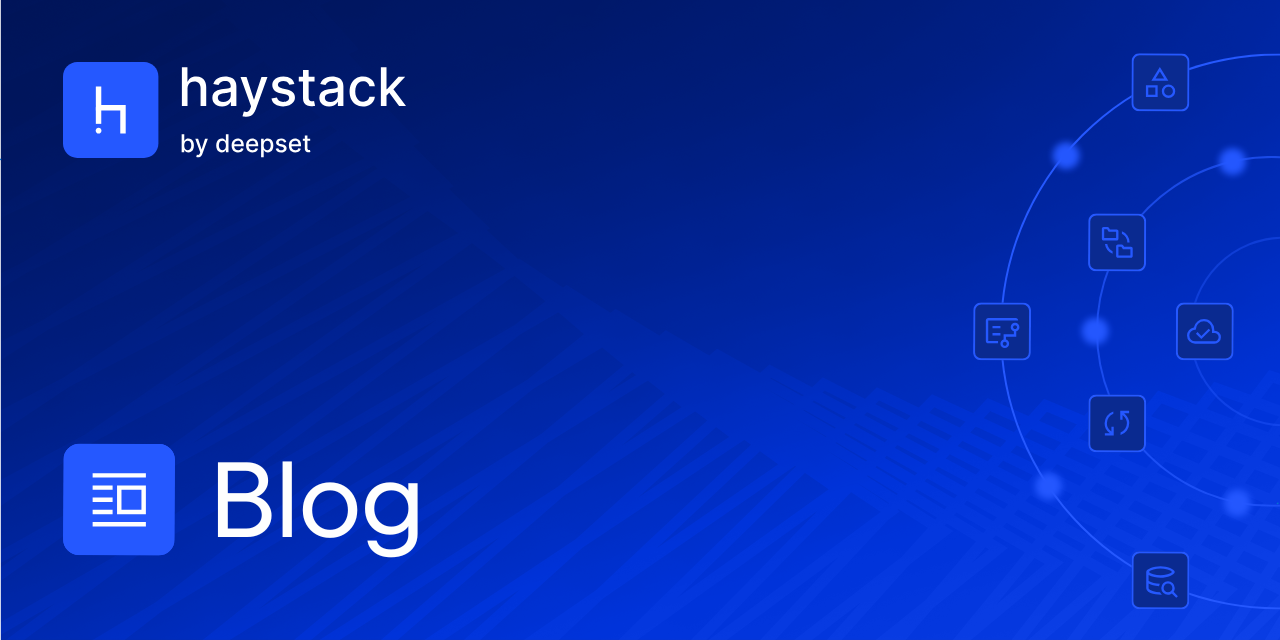
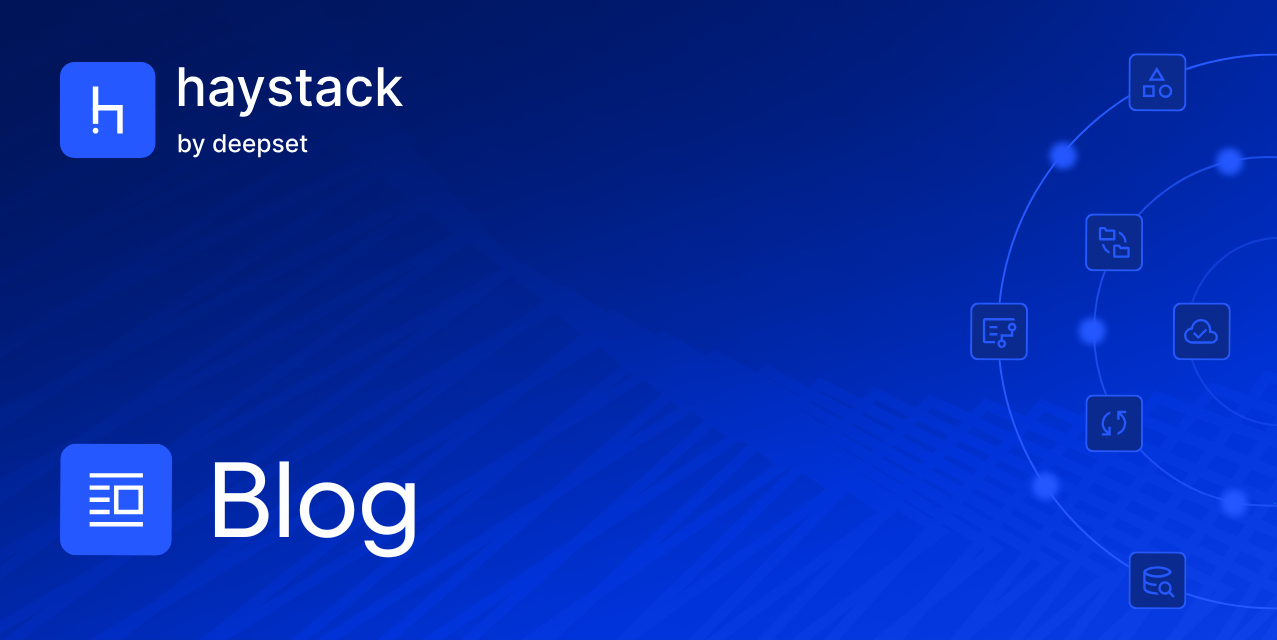
some copy updates and the announcement blog

diff --git a/content/blog/announcing-haystack-ecosystem/index.md b/content/blog/announcing-haystack-ecosystem/index.md
@@ -1,0 +1,94 @@
+---
+layout: blog-post
+title: 'Haystack Ecosystem: One Name for Building, Running, and Scaling AI'
+description: A Faster Way to Build and Scale Production-Grade AI Apps
+featured_image: thumbnail.png
+images: ["blog/announcing-haystack-ecosystem/thumbnail.png"]
+toc: True
+date: 2025-12-19
+last_updated:  2025-12-19
+authors:
+  - Bilge Yucel
+tags: ["Community"]
+---	
+
+We’re making some naming and visual updates at deepset to better reflect the role Haystack already plays as a framework, a community, and the foundation of our enterprise platform.
+
+If you’re already building with Haystack, nothing is changing in how you build or run applications. This update is about clarity—making the Haystack ecosystem easier to understand, easier to navigate, and centered around a single open foundation.
+
+## The Open Source to Enterprise Story of Haystack
+
+**Haystack** began as an open-source framework for building NLP pipelines, created to give developers precise control over how AI systems are composed, debugged, and run in production. From the start, it was designed for real-world use, not just experimentation.
+
+Over time, the framework expanded and so did the community. Teams began using Haystack to power increasingly sophisticated systems in production: **advanced RAG pipelines, agentic workflows, and multi-step, multimodal applications operating over complex enterprise data**. As adoption and contribution grew, Haystack evolved from a framework into a broader ecosystem, shaped by its community and proven in demanding production environments.
+
+As enterprises scaled their use of Haystack, the need for additional operational capabilities emerged. The deepset AI Platform evolved alongside the framework, built on the same architecture, abstractions, and mental model to support governance, deployment, and collaboration at scale. Renaming it to **Haystack Enterprise Platform** reflects how the open-source framework and enterprise operational tooling are already used together in practice.
+
+If you know Haystack, you already understand the foundation of the enterprise platform. The new name reflects how teams use Haystack across development, production, and enterprise-scale environments without changing tools, rewriting systems, or navigating brand confusion when choosing the right Haystack offering.
+
+## The Haystack Logo: What Changed and Why
+
+Alongside the naming change, we’re updating the **Haystack logo** and **overall look**.
+
+This isn’t just a change in appearance. It reflects how Haystack is used today and how the ecosystem has evolved.
+
+Haystack is no longer only a framework, it’s the foundation across everything we ship. Haystack Open Source, Haystack Enterprise Starter, and Haystack Enterprise Platform now share a consistent look, reflecting their place within a single Haystack family.
+
+The updated logo reflects Haystack’s role in building complete AI systems. It aligns with how Haystack is used today—bringing agents, retrieval, pipelines, and operational concerns together while staying true to its core values of openness, clarity and structure.
+
+![](haystack-logos.png#medium)
+
+## The Haystack Product Family
+
+The Haystack product family supports teams across the full lifecycle of enterprise AI adoption—from development to production and organization-wide scale. It includes the **Haystack Framework**, **Haystack Enterprise Starter**, and **Haystack Enterprise Platform**. 
+These are layers teams can grow into as their use of Haystack matures.
+
+### What Is Haystack?
+
+If you’re new to **Haystack**, it’s an open-source AI orchestration framework developed by deepset that enables Python developers to build sophisticated, agentic AI applications.
+
+It provides a modular pipeline architecture with a rich ecosystem of integrations, while preserving full flexibility to add custom components and external tools, including those from MCP servers. With robust documentation and production-ready capabilities such as serialization, logging, and well-defined APIs, Haystack supports reliable deployment across both cloud and on-premise environments.
+
+Haystack is designed to help teams move from experimentation to production without sacrificing control or architectural clarity—and is already used in production by many teams today.
+
+### What Is Haystack Enterprise Starter?
+
+**Haystack Enterprise Starter** combines the **Haystack open-source framework** with **enterprise-grade support** to help teams move more quickly and confidently toward production.
+
+It’s designed for teams already building with the Haystack framework who want additional guidance and reduced implementation risk, including:
+
+- Private and dedicated consulting and support
+- Secure pipeline and deployment design guidance
+- Proven deployment blueprints and production pipeline templates
+- A clear path to expand as requirements evolve
+
+Enterprise Starter serves as a practical stepping stone for teams preparing for broader adoption and more complex production use cases.
+
+_Haystack Enterprise Starter was previously known as Haystack Enterprise._
+
+👉 Learn more about [**Haystack Enterprise Starter**](https://www.deepset.ai/products-and-services/haystack-enterprise)
+
+### What Is Haystack Enterprise Platform?
+
+**Haystack Enterprise Platform** extends Haystack with the tooling needed to run AI systems reliably in production at enterprise scale.
+
+It builds on the same architecture, abstractions, and mental model the developer community already uses in Haystack, adding operational capabilities for deploying, testing, and governing AI applications across complex data, multiple use cases, and different environments.
+
+Key capabilities include:
+- **Composable, repeatable pipeline orchestration** with visual views aligned with code
+- **Production-ready indexing and retrieval** for large, complex enterprise data
+- **Integrated testing and evaluation** to validate changes and improve system behavior over time
+- **Access control and auditability** for shared, multi-team environments
+- **Scalable deployment** across cloud and on-premise setups
+
+Built on Haystack’s open-source foundation and shaped by real-world production use, Haystack Enterprise Platform helps teams elevate Haystack pipelines into enterprise systems they can operate, share, and scale across the organization.
+
+👉 Try [**Haystack Enterprise Platform for free**](https://www.deepset.ai/deepset-studio) or [**learn more**](https://www.deepset.ai/products-and-services/deepset-ai-platform).
+
+## Looking Ahead
+
+With these changes, Haystack is easier to understand, easier to navigate, and easier to adopt across the product family.
+
+This evolution reflects how Haystack is used in practice today—as an open, modular foundation for development and the core of a platform supporting production AI systems ranging from retrieval-based pipelines to agent-based workflows.
+
+We’ll keep building Haystack together with the community, customers, and partners—focused on transparent, debuggable, production-grade AI systems teams can trust and evolve over time.

diff --git a/content/blog/announcing-haystack-enterprise/index.md b/content/blog/announcing-haystack-enterprise/index.md
@@ -1,6 +1,6 @@
 ---
 layout: blog-post
-title: 'Announcing Haystack Enterprise: Best Practices and Support'
+title: 'Announcing Haystack Enterprise Starter: Best Practices and Support'
 description: A Faster Way to Build and Scale Production-Grade AI Apps
 featured_image: thumbnail.png
 images: ["blog/announcing-haystack-enterprise/thumbnail.png"]
@@ -18,9 +18,9 @@ We’ve had a front-row seat to these challenges. Across GitHub threads, meetups
 
 We’ve tackled many of these problems ourselves while building for customers on the [Haystack Enterprise Platform](https://www.deepset.ai/products-and-services/deepset-ai-platform). Now, we want to make that experience more accessible to the broader Haystack community.
 
-That’s why we’re introducing **Haystack Enterprise** today. It adds secure support, best practices, and professional services availability for organizations scaling up their Haystack pipelines. ⬇
+That’s why we’re introducing **Haystack Enterprise Starter** today. It adds secure support, best practices, and professional services availability for organizations scaling up their Haystack pipelines. ⬇
 
-## What's Inside Haystack Enterprise
+## What's Inside Haystack Enterprise Starter
 For developers building with Haystack, speed, reliability, and support are essential as projects move from prototype to production. Haystack Enterprise adds a new layer of readiness for exactly that:
 * **Direct access to the Haystack team**    
     Get expert help with private email support and dedicated consultation hours.
@@ -35,7 +35,7 @@ Think of it as Haystack+, an offering designed to accelerate delivery and give t
 
 
 ## What About Open Source?
-While Haystack Enterprise might be the right choice for some organizations, it may not be for others. Today’s news does not introduce any changes to the OSS community. Haystack started and will always remain as an open source framework. That isn’t changing.
+While Haystack Enterprise Starter might be the right choice for some organizations, it may not be for others. Today’s news does not introduce any changes to the OSS community. Haystack started and will always remain as an open source framework. That isn’t changing.
 
 We’re committed to keeping Haystack fully featured, well-documented, and free to use. You’ll continue to get:
 * [Open source codebase](https://github.com/deepset-ai/haystack)
@@ -43,22 +43,22 @@ We’re committed to keeping Haystack fully featured, well-documented, and free 
 * [Tutorials](https://haystack.deepset.ai/tutorials), [Cookbook](https://haystack.deepset.ai/cookbook), and other learning materials
 * A welcoming, collaborative [Discord community](https://discord.com/invite/Dr63fr9NDS) with support
 
-**Haystack Enterprise is simply an opt-in layer for teams needing more support and guidance**. It’s designed for engineering teams running Haystack at scale who want faster deployment, higher reliability, and private channels to get expert help.
+**Haystack Enterprise Starter is simply an opt-in layer for teams needing more support and guidance**. It’s designed for engineering teams running Haystack at scale who want faster deployment, higher reliability, and private channels to get expert help.
 
 No license changes. No gated community features. Just more choices for teams building AI products.
 
-## How Haystack Enterprise Fits into the Bigger Picture
-We see Haystack Enterprise as part of a continuum that supports developers from the first prototype to full-scale production systems:
+## How Haystack Enterprise Starter Fits into the Bigger Picture
+We see Haystack Enterprise Starter as part of a continuum that supports developers from the first prototype to full-scale production systems:
 * [**Haystack**](https://haystack.deepset.ai/): Self-hosted and fully open source.
-* [**Haystack Enterprise**](https://www.deepset.ai/products-and-services/haystack-enterprise): Production-grade support and best practices for teams who are scaling up. Includes secure deployment tooling, private engineering guidance, and early access to enterprise features.
-* [**deepset AI Platform**](https://www.deepset.ai/products-and-services/deepset-ai-platform): A fully managed, end-to-end development and orchestration platform. Built for teams that want visual tooling, iterative testing, autoscaling, and centralized governance over resource and access management.
+* [**Haystack Enterprise Starter**](https://www.deepset.ai/products-and-services/haystack-enterprise): Production-grade support and best practices for teams who are scaling up. Includes secure deployment tooling, private engineering guidance, and early access to enterprise features.
+* [**Haystack Enterprise Platform**](https://www.deepset.ai/products-and-services/deepset-ai-platform): A fully managed, end-to-end development and orchestration platform. Built for teams that want visual tooling, iterative testing, autoscaling, and centralized governance over resource and access management.
 
-Now, you can start with Haystack, opt-in to Haystack Enterprise as you grow, and consider the Platform if you want to accelerate your development.
+Now, you can start with Haystack, opt-in to Enterprise Starter as you grow, and consider the Platform if you want to accelerate your development.
 
 
 ## Want to Learn More?
 If you’re a developer running Haystack in production or thinking about scaling your next use case up, let’s talk! 
 
-👉 [Get in touch with our team to explore Haystack Enterprise](https://www.deepset.ai/products-and-services/haystack-enterprise)
+👉 [Get in touch with our team to explore Haystack Enterprise Starter](https://www.deepset.ai/products-and-services/haystack-enterprise)
 
 

diff --git a/content/overview/intro.md b/content/overview/intro.md
@@ -3,7 +3,7 @@ layout: overview
 header: dark
 footer: dark
 title: What is Haystack?
-desciption: Haystack is an open-source AI orchestration framework built by deepset that empowers Python developers to build real-world, compound, agentic LLM applications.
+desciption: Create agentic, compound AI systems using Haystack’s modular and customizable building blocks, built for real-world, production-ready applications.
 weight: 1
 toc: true
 ---
@@ -22,9 +22,9 @@ pip install -U haystack-ai
 
 ## Who is Haystack For?
 
-Haystack is for builders of all kinds—whether you’re prototyping your first Gen AI app or deploying sophisticated systems at scale. If you know a bit of Python, you’re ready to start.
+Haystack is for builders of all kinds—whether you’re prototyping your first AI application or deploying sophisticated systems at scale. If you know a bit of Python, you’re ready to start.
 
-You can build directly in Python, visually with [deepset Studio](https://www.deepset.ai/deepset-studio), or scale up with enterprise-grade infrastructure on the [deepset AI Platform](https://www.deepset.ai/products-and-services/deepset-ai-platform). Whatever your level or need, Haystack gives you the power to build, experiment, and launch faster.
+You can build directly in Python or scale up with enterprise-grade infrastructure on the [Haystack Enterprise Platform](https://www.deepset.ai/products-and-services/deepset-ai-platform). Whatever your level or need, Haystack gives you the power to build, experiment, and launch faster.
 
 ## Why Developers Love Haystack
 
@@ -41,14 +41,14 @@ Here’s why developers choose Haystack:
 
 Whether it’s **agent workflows, retrieval over millions of docs, text-to-SQL or** **PDF parsing,** Haystack scales with your idea without scaling your complexity.
 
-## The deepset Ecosystem
+## The Haystack Ecosystem
 
-At deepset, we’re building the tools to make LLMs truly usable in production—open source and beyond.
+We’re building the tools to make LLMs truly usable in production—open source and beyond.
 
 - [Haystack](https://github.com/deepset-ai/haystack) → Our core framework for AI orchestration, launched in 2020.
-- [Haystack Enterprise](https://www.deepset.ai/products-and-services/haystack-enterprise) → Expert support, advanced pipeline templates, deployment guides, and early access features for teams needing more support and guidance.
-- [deepset Studio](https://www.deepset.ai/deepset-studio) → A free visual interface for building pipelines, experimenting with data, and deploying apps for development.
-- [deepset AI Platform](https://www.deepset.ai/products-and-services/deepset-ai-platform) → An enterprise-ready platform for teams running Gen AI apps in production, with security, governance, and scalability built in.
+- [Haystack Enterprise Starter](https://www.deepset.ai/products-and-services/haystack-enterprise) → Expert support, advanced pipeline templates, deployment guides, and early access features for teams needing more support and guidance.
+- [Haystack Enterprise Platform](https://www.deepset.ai/products-and-services/deepset-ai-platform) → An enterprise-ready platform for teams running Gen AI apps in production, with security, governance, and scalability built in.
+- [Haystack Enterprise Platform Trial](https://www.deepset.ai/deepset-studio) → A free visual interface for building pipelines, experimenting with data, and deploying apps for development.
 
 Recognized as a [2024 Gartner Cool Vendor in AI Engineering](https://landing.deepset.ai/deepset-recognized-as-a-gartner-cool-vendor), we’re proud to serve the community and enterprises alike.
 
@@ -65,13 +65,13 @@ We’d love to have you involved:
 - 🐘 Follow along on [X (Twitter)](https://x.com/Haystack_AI) or [Mastodon](https://fosstodon.org/@haystack_ai)
 - 💌 Get our latest news in your inbox via the [Haystack newsletter](https://landing.deepset.ai/haystack-community-updates)
 
-## Enter the Haystack Universe
+## Enter the Haystack Open Source Universe
 
 There are so many ways to start building:
 
 - Start building with [tutorials](https://haystack.deepset.ai/tutorials)
 - Follow use case examples in [cookbook](https://haystack.deepset.ai/cookbook)
-- Learn with the [DeepLearning.AI course](https://www.deeplearning.ai/short-courses/building-ai-applications-with-haystack/)
+- Learn with the [DeepLearning.AI](https://www.deeplearning.ai/short-courses/building-ai-applications-with-haystack/) or [DataCamp](https://app.datacamp.com/learn/courses/building-ai-agents-with-haystack) courses
 - Check out [integrations](https://haystack.deepset.ai/integrations)
 - Explore cutting-edge features in [Haystack Experimental](https://docs.haystack.deepset.ai/docs/experimental-package)
 - Read our [blog](https://haystack.deepset.ai/blog) and [docs](https://docs.haystack.deepset.ai/docs/intro)
